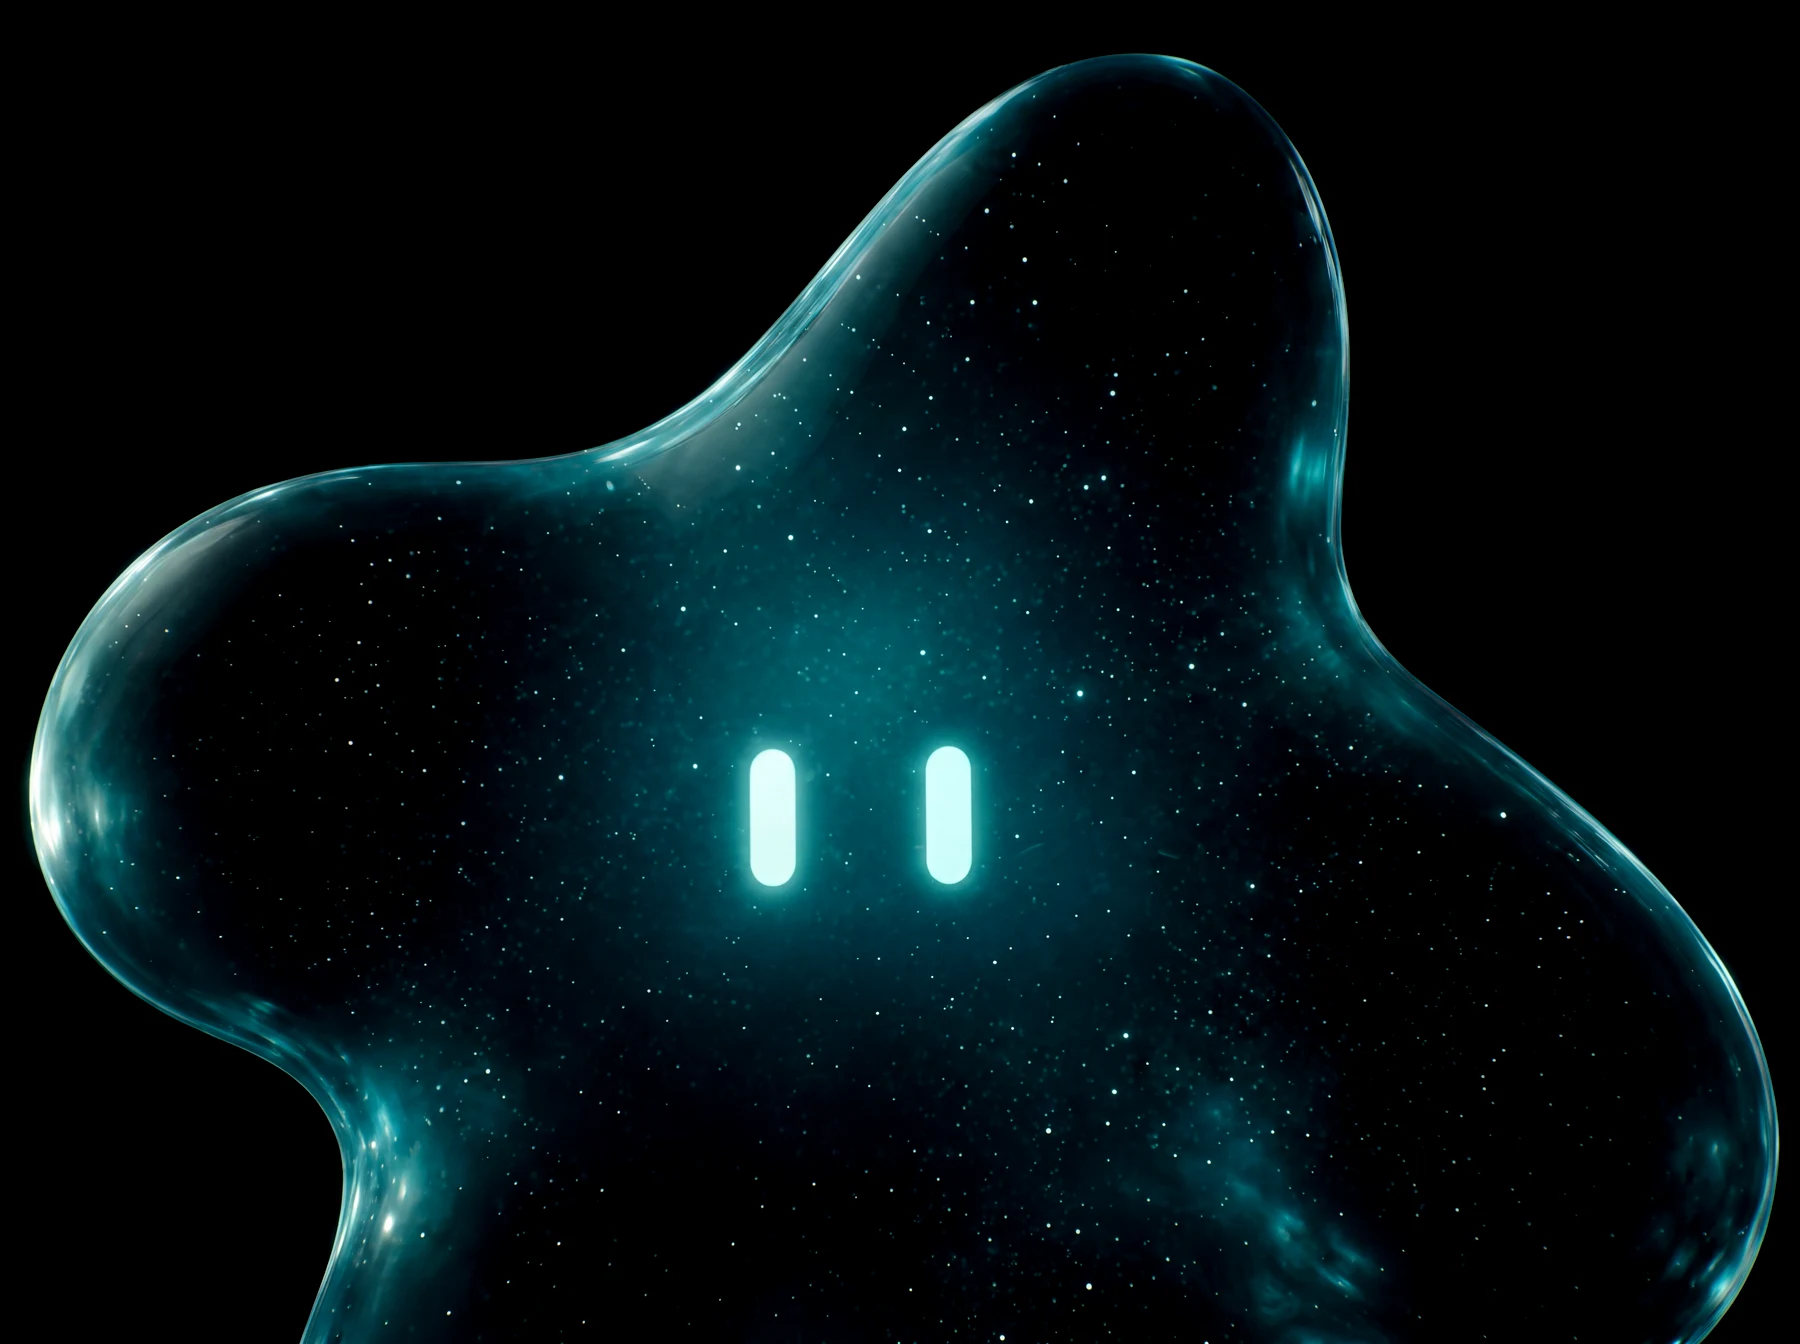
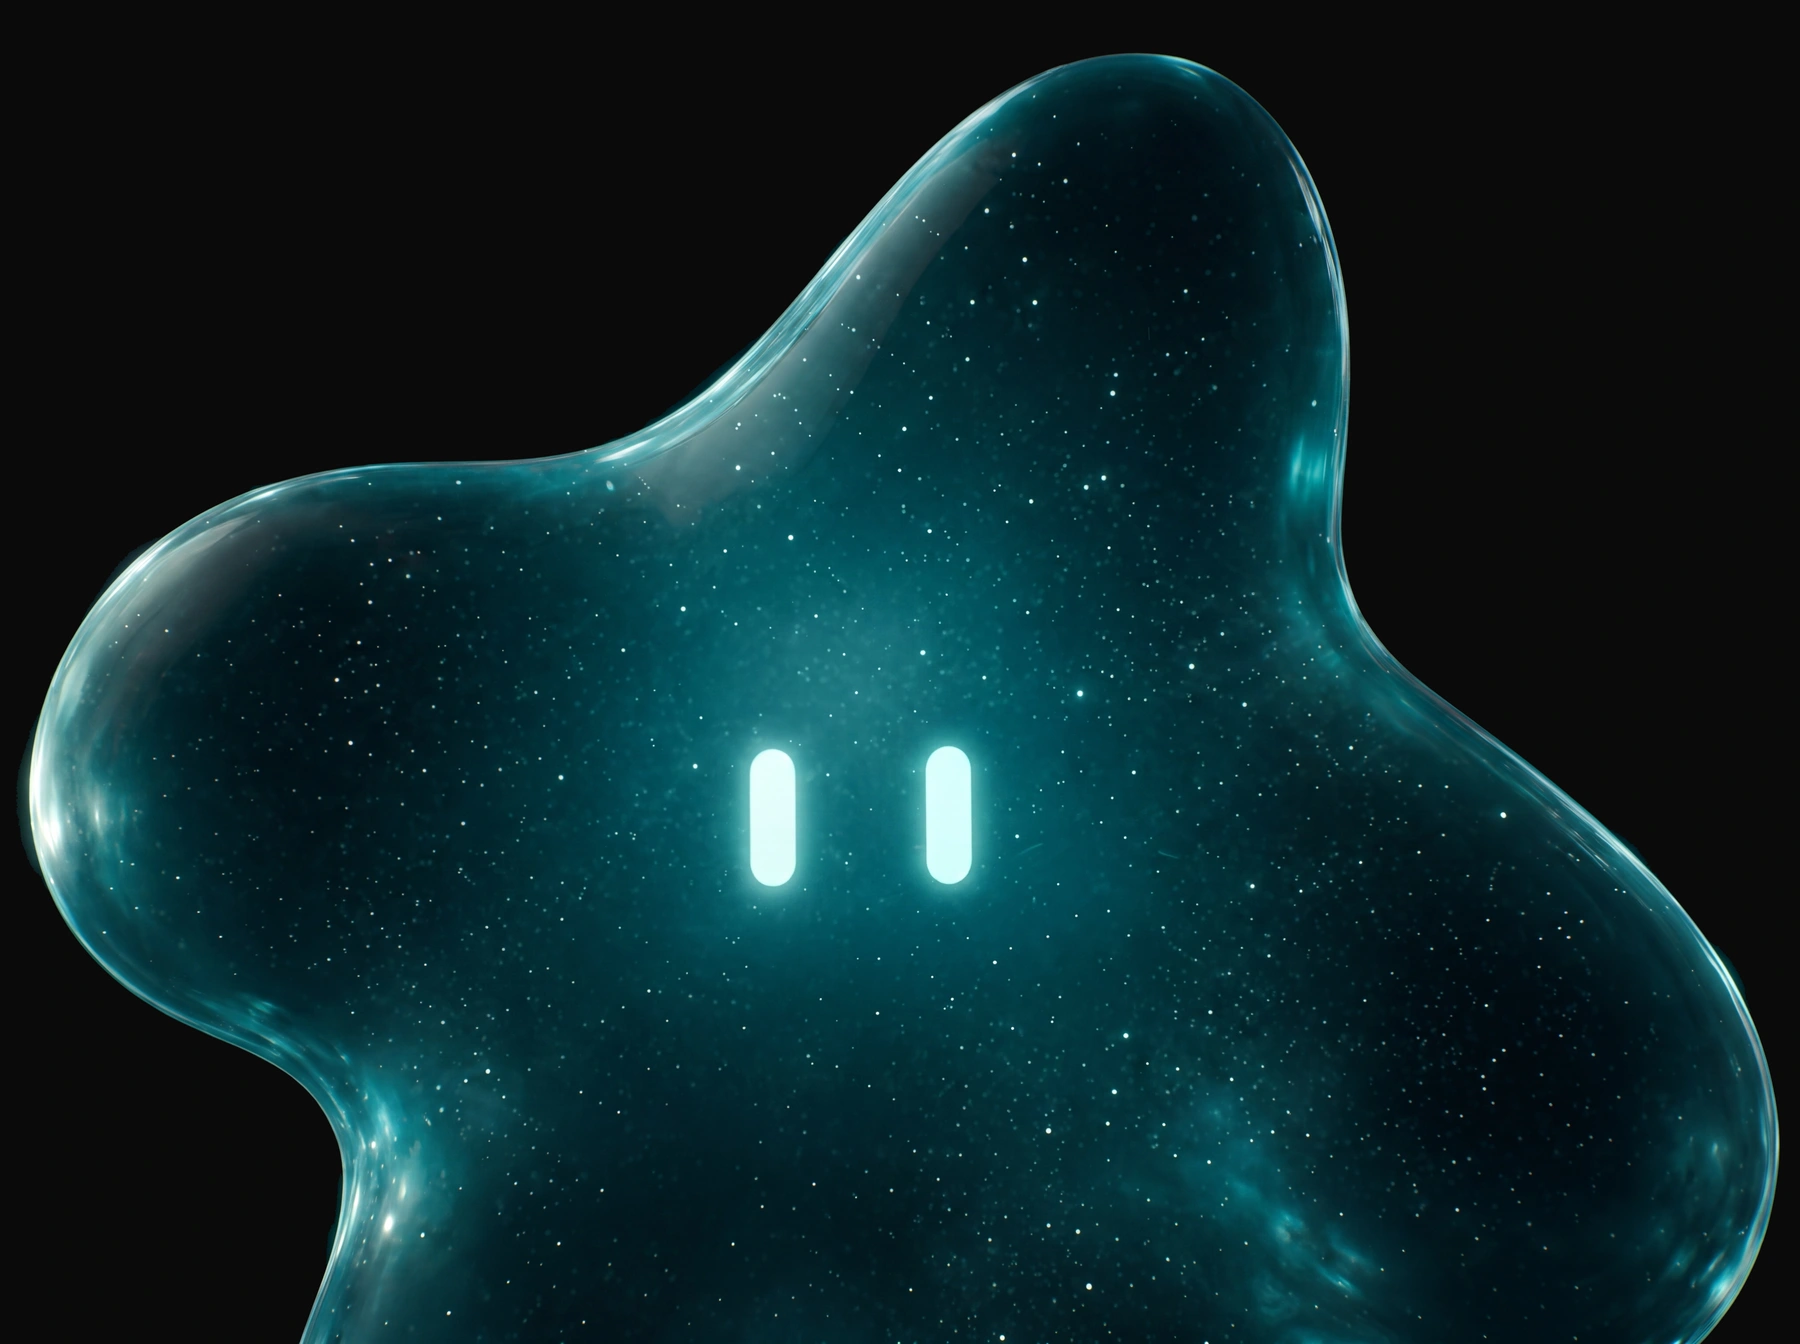
feat(hero): use the creature image as-is, no blend
Plain <img> of ivy-hero.webp (straight web-sized copy of the source PNG,
background untouched). No blend mode, no color processing. Size/position
via IMG_WIDTH / IMG_X / IMG_Y knobs.

diff --git a/components/landing/Hero.tsx b/components/landing/Hero.tsx
@@ -11,10 +11,9 @@ import Button from '@/components/Button';
 // page. Copy on the left. Renders from the registry's live agent, so the hero
 // rotates by flipping registry state, never by rewriting this file.
 //
-// The creature is a STILL image (`/hero/ivy-hero.webp`). Its background was
-// baked to true black, and `mix-blend-mode: lighten` drops that black against
-// the dark page (max(img, page) → the void becomes the page, the creature
-// stays), so it floats with no box. Marketing is dark-only, so lighten is safe.
+// The creature is a STILL image (`/hero/ivy-hero.webp`), used as-is — its
+// background already matches the page, so no blend mode or color processing.
+// Size & position are the knobs below.
 // =============================================================================
 
 // ── KNOBS — change the creature's size & position here ──────────────────────
@@ -148,10 +147,8 @@ export default function Hero() {
           width: 100%;
           height: auto;
           display: block;
-          /* LIGHTEN = max(image, page): the baked-black background falls below
-             the dark page and is replaced by it, so the creature floats free
-             with no box. Bottom mask melts it into the section below. */
-          mix-blend-mode: lighten;
+          /* image used as-is (its background already matches the page).
+             bottom mask melts it into the section below. */
           -webkit-mask-image: linear-gradient(to bottom, #000 ${FADE_START}, transparent ${FADE_END});
           mask-image: linear-gradient(to bottom, #000 ${FADE_START}, transparent ${FADE_END});
         }
